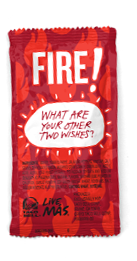
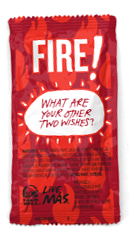
adjusted sauce packet size

diff --git a/style.css b/style.css
@@ -35,12 +35,16 @@ input[type="text"]
 
 table
 {
-	width: 320px;
+	width: 100%;
 	margin-left: auto; 
     margin-right: auto;
 }
+td
+{
+	margin: 0;
+	padding: 0;
+}
 td img
 {
-	margin: -15% 0;
 	width: 100%;
 }
